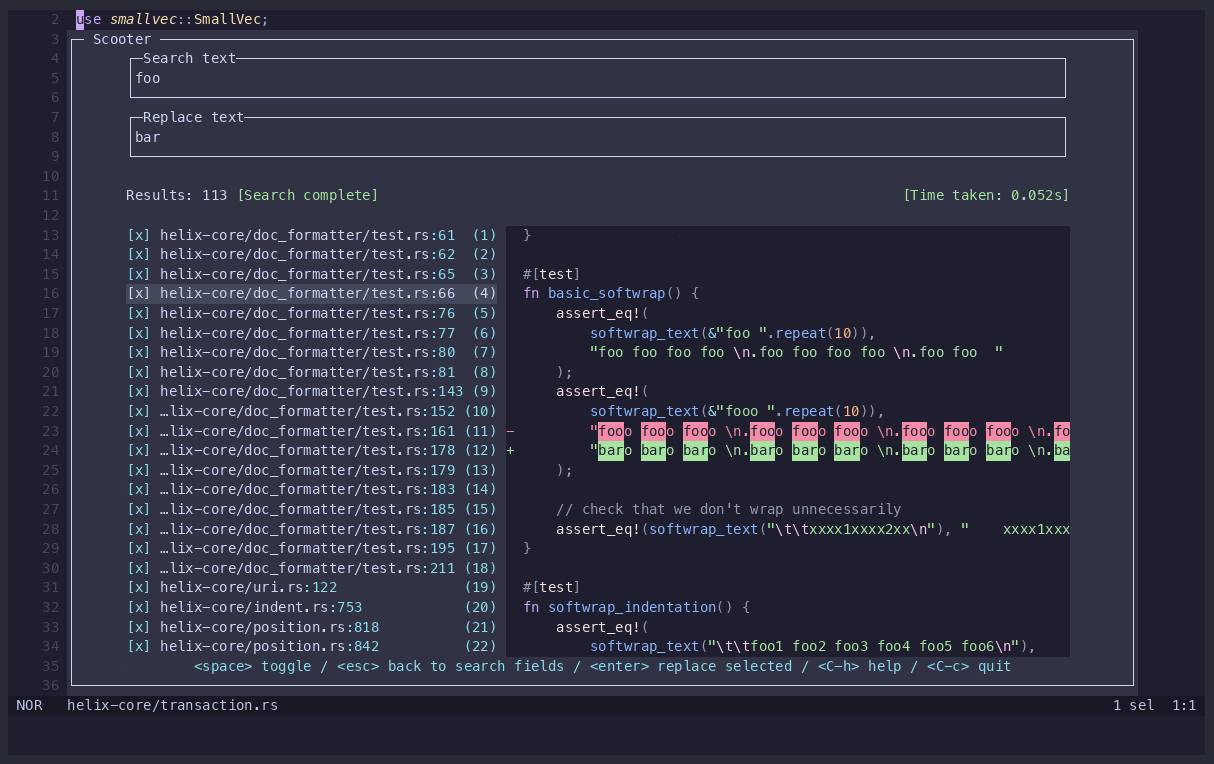
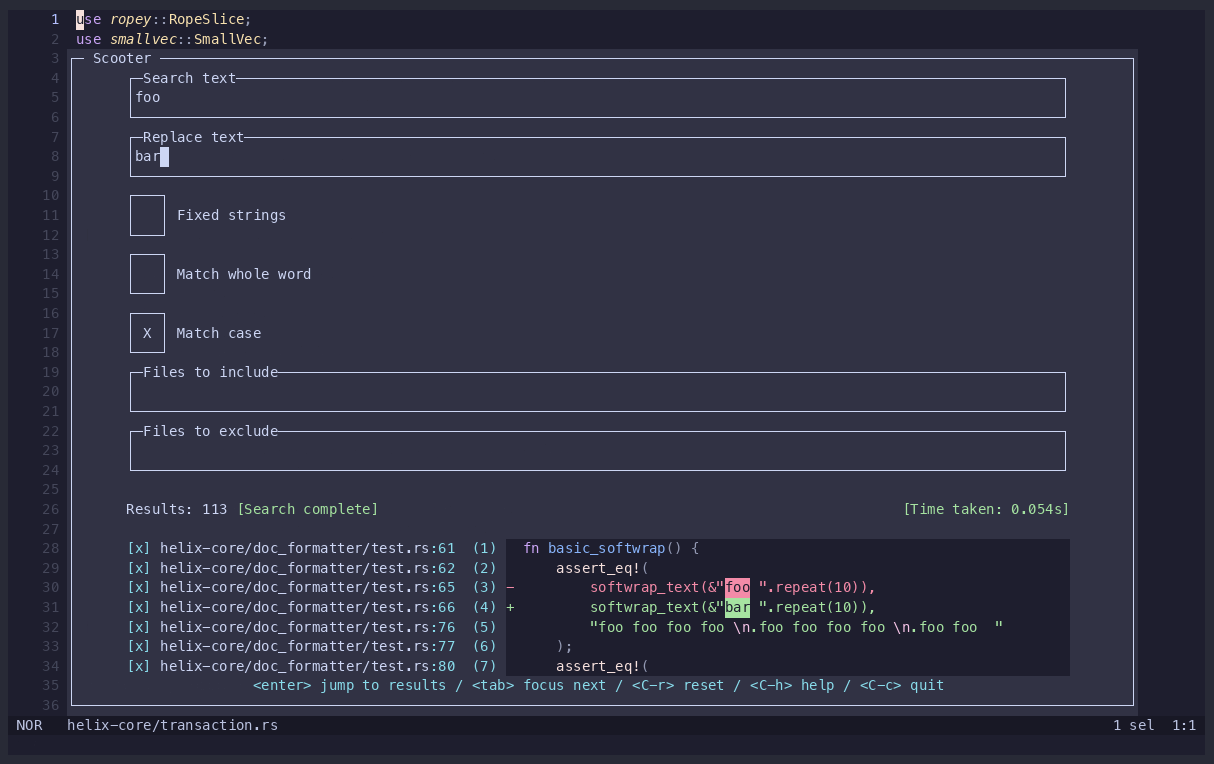
Fix gif pipeline: scroll-free frame rendering, atomic cursor capture
The cast reconstruction printed a newline after the bottom row, scrolling
every frame one row and detaching the cursor from the text; rows are now
addressed explicitly. Cursor+screen sampling is a single tmux invocation,
malformed frames are skipped instead of rendered, pacing tightened, and
the pipeline works from any checkout via TMPDIR. Media regenerated.

diff --git a/scripts/gif/build_cast.py b/scripts/gif/build_cast.py
@@ -1,5 +1,10 @@
 #!/usr/bin/env python3
-"""Build an asciinema v2 cast from timestamped tmux ANSI captures."""
+"""Build an asciinema v2 cast from timestamped tmux ANSI captures.
+
+Each frame file starts with a line `@CURSOR <x> <y>` (0-based pane coords)
+followed by the `tmux capture-pane -e -p` screen body. Malformed frames are
+skipped rather than rendered.
+"""
 import json
 import sys
 from pathlib import Path
@@ -12,24 +17,35 @@ frames = sorted(frames_dir.glob("f_*.txt"))
 if not frames:
     sys.exit("no frames captured")
 
-t0 = int(frames[0].stem.split("_")[1])
 events = []
+t0 = None
 previous = None
 for frame in frames:
     ms = int(frame.stem.split("_")[1])
     raw = frame.read_text(errors="replace")
-    # Last line of the capture file is "cursor_x cursor_y".
-    body, _, cursor = raw.rpartition("\n@CURSOR ")
-    if not body:
-        body, cursor = raw, "0 0"
-    cx, cy = (int(v) for v in cursor.split())
+    marker, _, body = raw.partition("\n")
+    if not marker.startswith("@CURSOR ") or not body.strip():
+        continue
+    try:
+        cx, cy = (int(v) for v in marker.split()[1:3])
+    except ValueError:
+        continue
+    if t0 is None:
+        t0 = ms
     lines = body.split("\n")[:rows]
-    screen = "\x1b[H" + "".join(f"{line}\x1b[K\r\n" for line in lines)
+    # Address every row explicitly: printing a newline after the bottom row
+    # would scroll the screen, shifting content one row off the cursor.
+    screen = "".join(
+        f"\x1b[{row + 1};1H{line}\x1b[K" for row, line in enumerate(lines)
+    )
     screen += f"\x1b[{cy + 1};{cx + 1}H\x1b[?25h"
     if screen == previous:
         continue
     previous = screen
     events.append([round((ms - t0) / 1000.0, 3), "o", screen])
+
+if not events:
+    sys.exit("no valid frames")
 
 # Hold the final frame briefly so the gif does not loop abruptly.
 events.append([events[-1][0] + 1.2, "o", "\x1b[?25h"])
